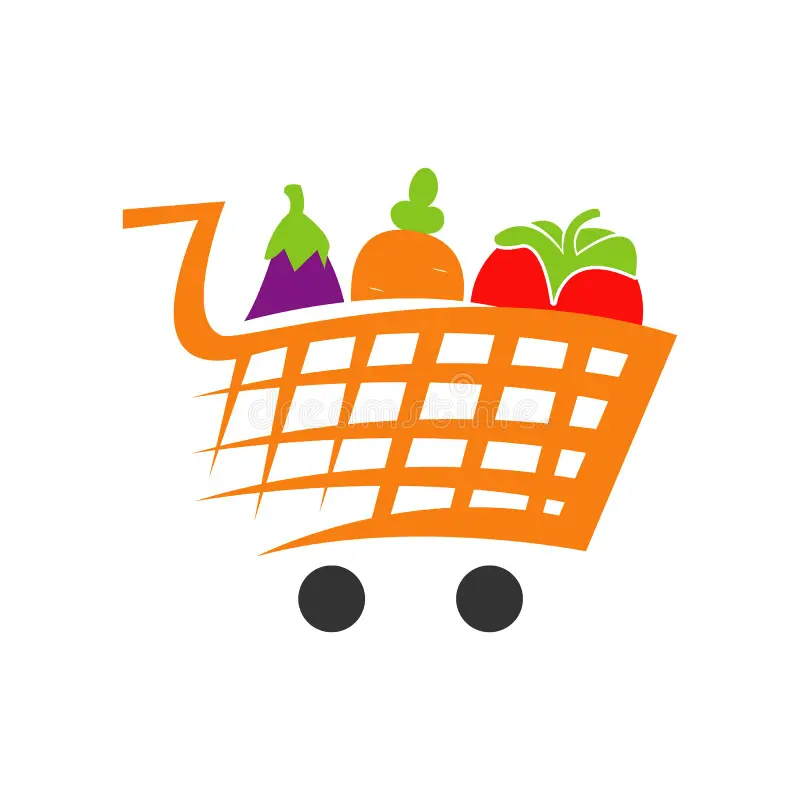
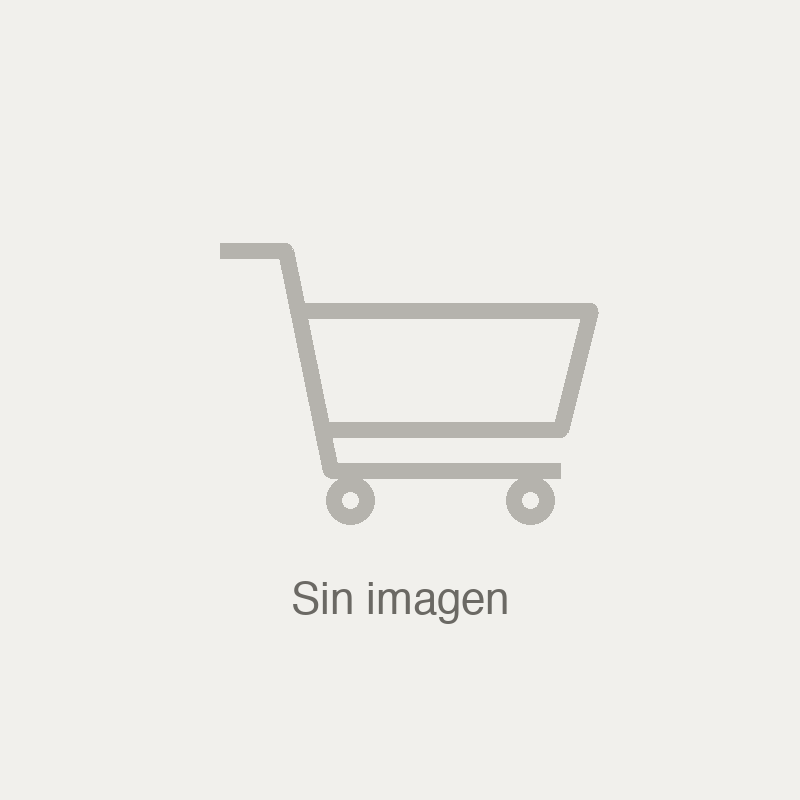
fix: clean placeholder image, login returns to the page, service tests
- Replace media/products/default.png, which had a stock-photo watermark,
  with a plain cart placeholder in the brand colors.
- Login follows ?next= back to the page you were on (only same-site
  URLs); the header and review links pass the current page.
- Tests for the cheapest supermarket and estimated savings services.

Changed region(s): [[0.1562, 0.2188, 0.8438, 0.8125]]

diff --git a/products/templates/products/_reviews.html b/products/templates/products/_reviews.html
@@ -33,7 +33,7 @@ Expects: reviews, user_review, submit_url, delete_url (only when user_review exi
       </form>
     {% endif %}
   {% else %}
-    <p class="muted"><a href="{% url 'accounts:login' %}" class="text-link">Inicia sesión</a> para dejar una reseña.</p>
+    <p class="muted"><a href="{% url 'accounts:login' %}?next={{ request.get_full_path|urlencode }}" class="text-link">Inicia sesión</a> para dejar una reseña.</p>
   {% endif %}
 
   <ul class="review-list">

diff --git a/pricewise/templates/components/header.html b/pricewise/templates/components/header.html
@@ -53,7 +53,7 @@
       </form>
       {% else %}
       <div class="user-area-div">
-        <a href="{% url 'accounts:login' %}">Iniciar sesión</a>
+        <a href="{% url 'accounts:login' %}?next={{ request.get_full_path|urlencode }}">Iniciar sesión</a>
         <a href="{% url 'accounts:register' %}">Registrarse</a>
       </div>
       {% endif %}

diff --git a/accounts/templates/accounts/login.html b/accounts/templates/accounts/login.html
@@ -15,6 +15,7 @@
 
   <form method="post">
     {% csrf_token %}
+    <input type="hidden" name="next" value="{{ next }}">
     {{ form.non_field_errors }}
 
     <div class="field">

diff --git a/shopping_lists/test_services.py b/shopping_lists/test_services.py
@@ -1,0 +1,50 @@
+from decimal import Decimal
+
+from django.test import TestCase
+
+from products.models import Category, Price, Product, Supermarket
+from .models import ShoppingList, ShoppingListItem
+from .services import (
+    calculate_estimated_savings,
+    calculate_supermarket_breakdown,
+    get_cheapest_supermarket_recommendation,
+)
+
+
+class SupermarketBreakdownTests(TestCase):
+    def setUp(self):
+        category = Category.objects.create(name='Granos', slug='granos')
+        self.rice = Product.objects.create(name='Arroz', category=category)
+        self.beans = Product.objects.create(name='Frijol', category=category)
+        self.exito = Supermarket.objects.create(name='Éxito')
+        self.carulla = Supermarket.objects.create(name='Carulla')
+        self.d1 = Supermarket.objects.create(name='D1')
+        Price.objects.create(product=self.rice, supermarket=self.exito, amount='3000')
+        Price.objects.create(product=self.beans, supermarket=self.exito, amount='5000')
+        Price.objects.create(product=self.rice, supermarket=self.carulla, amount='3500')
+        Price.objects.create(product=self.beans, supermarket=self.carulla, amount='6000')
+        Price.objects.create(product=self.rice, supermarket=self.d1, amount='1000')  # no beans
+        self.shopping_list = ShoppingList.objects.create(name='Mercado')
+        ShoppingListItem.objects.create(shopping_list=self.shopping_list, product=self.rice, quantity=2)
+        ShoppingListItem.objects.create(shopping_list=self.shopping_list, product=self.beans, quantity=1)
+
+    def test_cheapest_complete_supermarket_wins_over_cheaper_partial_one(self):
+        breakdown, best = get_cheapest_supermarket_recommendation(
+            calculate_supermarket_breakdown(self.shopping_list))
+        self.assertEqual(best['supermarket'], self.exito)
+        self.assertEqual(best['total'], Decimal('11000'))  # 2 x 3000 + 5000
+        partial = next(entry for entry in breakdown if entry['supermarket'] == self.d1)
+        self.assertFalse(partial['complete'])
+        self.assertEqual(partial['missing'], [self.beans])
+        self.assertEqual(breakdown[-1]['supermarket'], self.d1)
+
+    def test_savings_compare_cheapest_and_most_expensive_complete_supermarket(self):
+        breakdown, _ = get_cheapest_supermarket_recommendation(
+            calculate_supermarket_breakdown(self.shopping_list))
+        self.assertEqual(calculate_estimated_savings(breakdown), Decimal('2000'))  # 13000 - 11000
+
+    def test_no_savings_with_fewer_than_two_complete_supermarkets(self):
+        Price.objects.filter(supermarket=self.carulla).delete()
+        breakdown, _ = get_cheapest_supermarket_recommendation(
+            calculate_supermarket_breakdown(self.shopping_list))
+        self.assertIsNone(calculate_estimated_savings(breakdown))

diff --git a/accounts/views.py b/accounts/views.py
@@ -3,6 +3,7 @@ from django.contrib.auth import login, logout, update_session_auth_hash
 from django.contrib.auth.decorators import login_required
 from django.contrib.auth.forms import AuthenticationForm, PasswordChangeForm
 from django.shortcuts import redirect, render
+from django.utils.http import url_has_allowed_host_and_scheme
 
 from .forms import RegisterForm
 
@@ -28,11 +29,15 @@ def login_view(request):
         if form.is_valid():
             user = form.get_user()
             login(request, user)
+            # Only follow ?next= to pages on this site, never to another domain.
+            next_url = request.POST.get('next', '')
+            if url_has_allowed_host_and_scheme(next_url, allowed_hosts={request.get_host()}, require_https=request.is_secure()):
+                return redirect(next_url)
             return redirect('/')
     else:
         form = AuthenticationForm()
 
-    return render(request, 'accounts/login.html', {'form': form})
+    return render(request, 'accounts/login.html', {'form': form, 'next': request.GET.get('next', request.POST.get('next', ''))})
 
 def logout_view(request):
     if request.method == 'POST':

diff --git a/accounts/tests.py b/accounts/tests.py
@@ -26,3 +26,18 @@ class AuthPagesTests(TestCase):
     def test_wrong_password_shows_spanish_error(self):
         response = self.client.post(reverse('accounts:login'), {'username': 'nadie', 'password': 'x'})
         self.assertContains(response, 'Por favor')
+
+
+class LoginRedirectTests(TestCase):
+    def setUp(self):
+        User.objects.create_user(username='ana', password='clave-segura-1')
+
+    def test_login_returns_to_the_page_in_next(self):
+        response = self.client.post(reverse('accounts:login'), {
+            'username': 'ana', 'password': 'clave-segura-1', 'next': '/products/supermarkets/'})
+        self.assertRedirects(response, '/products/supermarkets/', fetch_redirect_response=False)
+
+    def test_login_ignores_next_pointing_to_another_site(self):
+        response = self.client.post(reverse('accounts:login'), {
+            'username': 'ana', 'password': 'clave-segura-1', 'next': 'https://evil.example.com/'})
+        self.assertRedirects(response, '/', fetch_redirect_response=False)
